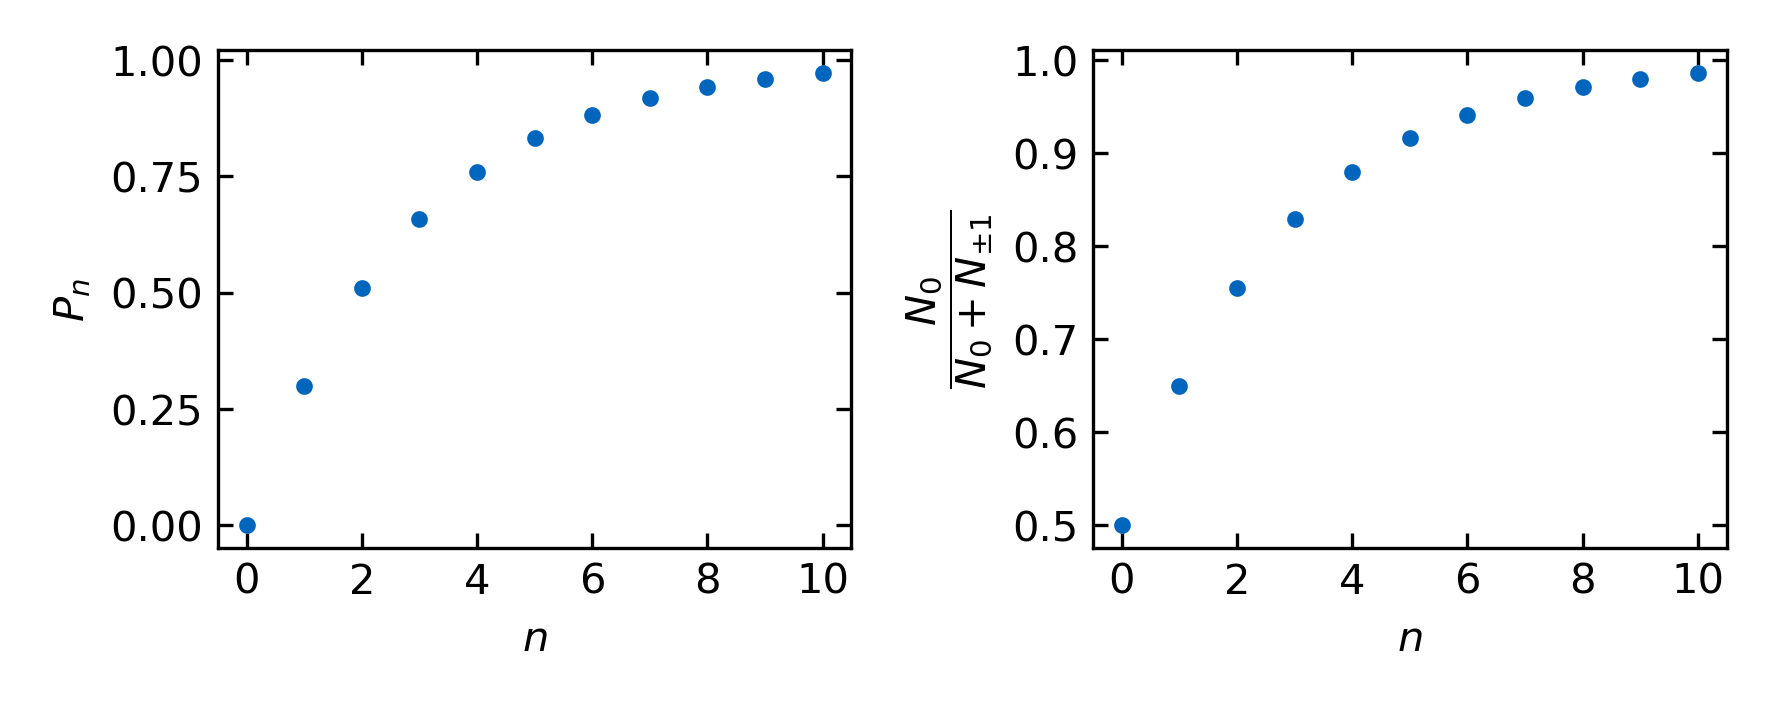
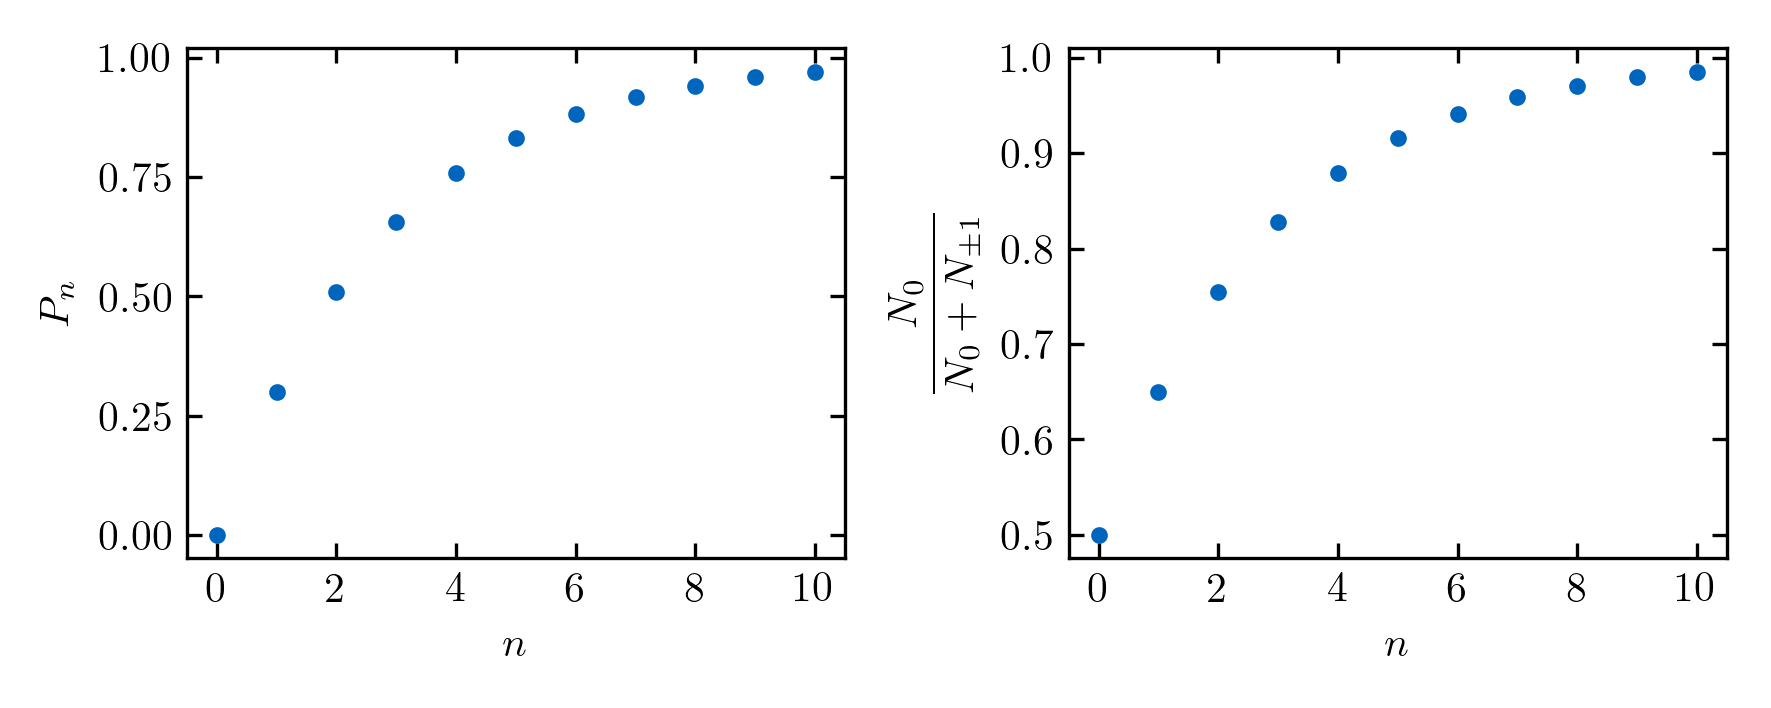
changed matplotlibrc to
text.usetex          : True
font.family          : serif
font.serif           : cm

diff --git a/images/chapter_2/polarization_plots.py b/images/chapter_2/polarization_plots.py
@@ -5,6 +5,9 @@ from calcs.optical_polarization import calc_polarization, percentage_of_polarize
 from util.inches import cm_to_inch
 from util.tum_jet import tum_color
 
+plt.rcParams['text.latex.preamble'] = [
+    r"\usepackage{amsmath} \usepackage{amsfonts} \usepackage{amssymb} \usepackage{braket}"]
+
 
 def main():
     ks = np.arange(0, 11, 1)
@@ -14,15 +17,15 @@ def main():
 
     polarizations = calc_polarization(ks)
     ax1.plot(ks, polarizations, '.', color=tum_color(0))
-    ax1.set_xlabel(u'$n$')
+    ax1.set_xlabel(r'$n$')
     ax1.set_xticks(ks[::2])
-    ax1.set_ylabel(u'$ P_n $')
+    ax1.set_ylabel(r'$ P_n $')
     ax1.set_yticks(np.arange(0, 1.1, 0.25))
 
     ax2.plot(ks, percentage_of_polarized_states(polarizations), '.', color=tum_color(0))
-    ax2.set_xlabel(u'$n$')
+    ax2.set_xlabel(r'$n$')
     ax2.set_xticks(ks[::2])
-    ax2.set_ylabel(u'$ \dfrac{N_0}{N_0 + N_{\pm 1}} $')
+    ax2.set_ylabel(r'$ \dfrac{N_0}{N_0 + N_{\pm 1}} $')
     ax2.set_yticks(np.arange(0.5, 1.01, 0.1))
 
     plt.tight_layout()

diff --git a/images/chapter_3/confocal_scan.py b/images/chapter_3/confocal_scan.py
@@ -14,12 +14,12 @@ def main():
     plt.figure(figsize=(cm_to_inch(7.5), cm_to_inch(5)))
     plt.imshow(file_data['result'], vmax=8e4, cmap=tum_jet, interpolation='bilinear', origin='lower',
                extent=[0, x_extent(file_data), 0, y_extent(file_data)])
-    plt.xlabel(u'$x$ (nm)')
-    plt.ylabel(u'$y$ (nm)')
+    plt.xlabel(r'$x$ (nm)')
+    plt.ylabel(r'$y$ (nm)')
     plt.yticks([0, 10, 20])
     cbar = plt.colorbar(aspect=10)
     cbar.ax.set_yticklabels(['20', '40', '60', '80'])
-    cbar.set_label('luminescence (kcts/s)')
+    cbar.set_label(r'luminescence (kcts/s)')
     plt.tight_layout()
     plt.savefig('confocal_scan.png', dpi=500)
 

diff --git a/images/chapter_3/magnet_scan.py b/images/chapter_3/magnet_scan.py
@@ -35,7 +35,7 @@ class MagnetScanPlotter:
     def add_colorbar(self, image):
         self.fig.subplots_adjust(bottom=0.2, top=0.92, left=0.08, right=0.85, wspace=0.2)
         cbar_ax = self.fig.add_axes([0.85, 0.2, 0.04, 0.72])
-        self.fig.colorbar(image, cax=cbar_ax, label='luminescence (kcts/s)')
+        self.fig.colorbar(image, cax=cbar_ax, label=r'luminescence (kcts/s)')
 
     def calc_offsets(self):
         x_offset = self.wide_scan_data[self.coordinates][0][0][0]
